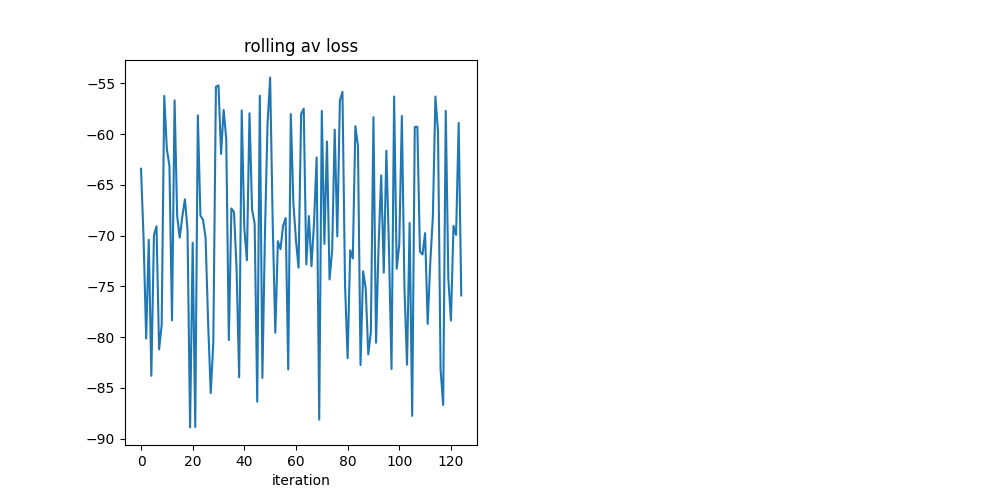
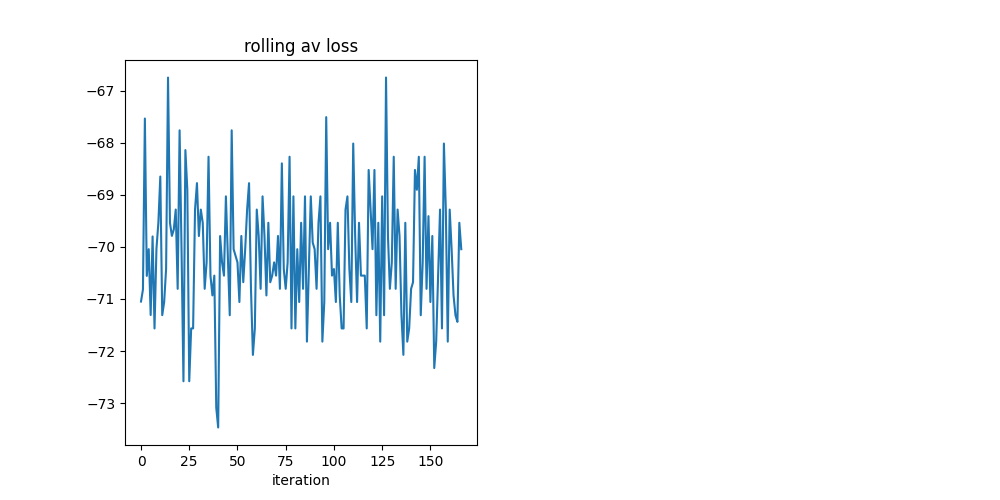
small updates

diff --git a/src/train_rl/train_rl.py b/src/train_rl/train_rl.py
@@ -24,7 +24,7 @@ parser.add_argument("--overwrite", action=argparse.BooleanOptionalAction, defaul
 parser.add_argument("--n-epochs", type=int, default=100)
 parser.add_argument("--logging-steps-ratio", type=float, default=0.01)
 parser.add_argument("--eval-steps-ratio", type=float, default=0.1)
-parser.add_argument("--lr", type=float, default=1e-5)
+parser.add_argument("--lr", type=float, default=1e-4)
 parser.add_argument("--one-player", action=argparse.BooleanOptionalAction, default=True)
 parser.add_argument("--use-stockfish-eval", action=argparse.BooleanOptionalAction, default=True)
 parser.add_argument("--stockfish-eval-depth", type=int, default=6)
@@ -33,6 +33,7 @@ parser.add_argument("--resume-from-checkpoint", action=argparse.BooleanOptionalA
 parser.add_argument("--checkpoint-path", type=str, default=None)
 parser.add_argument("--output-root", type=str, default="")
 parser.add_argument("--temperature", type=float, default=1.0)
+parser.add_argument("--lr-scheduler", action=argparse.BooleanOptionalAction, default=False)
 # Model
 parser.add_argument("--state-dim", type=int, default=72)
 parser.add_argument("--act-dim", type=int, default=4672)
@@ -95,6 +96,7 @@ try:  # To be sure to close stockfish engine if an error occurs
         state_dim=args.state_dim,
         act_dim=args.act_dim,
         temperature=args.temperature,
+        lr_scheduler=args.lr_scheduler,
     )
 
     trainer = DecisionTransformerREINFORCETrainer(cfg=trainer_cfg, model=model, device=DEVICE)

diff --git a/src/train_rl/utils/rl_trainers.py b/src/train_rl/utils/rl_trainers.py
@@ -63,7 +63,9 @@ class DecisionTransformerREINFORCETrainer:
         optim = torch.optim.AdamW(self.model.parameters(), lr=self.cfg.lr)
 
         pbar = tqdm.tqdm(range(self.cfg.num_train_epochs))
-        scheduler = torch.optim.lr_scheduler.CosineAnnealingLR(optim, self.cfg.num_train_epochs)
+
+        if self.cfg.lr_scheduler:
+            scheduler = torch.optim.lr_scheduler.CosineAnnealingLR(optim, self.cfg.num_train_epochs)
 
         logging_steps = int(1 / self.cfg.logging_steps_ratio)
         logs = {"loss": [], "rolling_av_loss": []}
@@ -82,7 +84,8 @@ class DecisionTransformerREINFORCETrainer:
             logs["loss"].append((sum(loss) / len(loss)).item())
             if i % logging_steps == logging_steps - 1:
                 logs["rolling_av_loss"].append(sum(logs["loss"][-logging_steps:]) / logging_steps)
-            scheduler.step()
+            if self.cfg.lr_scheduler:
+                scheduler.step()
         self.log(logs)
 
     def one_game_rollout(self):

diff --git a/src/train_rl/utils/rl_trainer_config.py b/src/train_rl/utils/rl_trainer_config.py
@@ -25,6 +25,7 @@ class RLTrainerConfig:
         state_dim: int,
         act_dim: int,
         temperature: float,
+        lr_scheduler: bool,
     ):
         self.output_dir = output_dir
         self.logging_dir = logging_dir
@@ -47,3 +48,4 @@ class RLTrainerConfig:
         self.state_dim = state_dim
         self.act_dim = act_dim
         self.temperature = temperature
+        self.lr_scheduler = lr_scheduler
